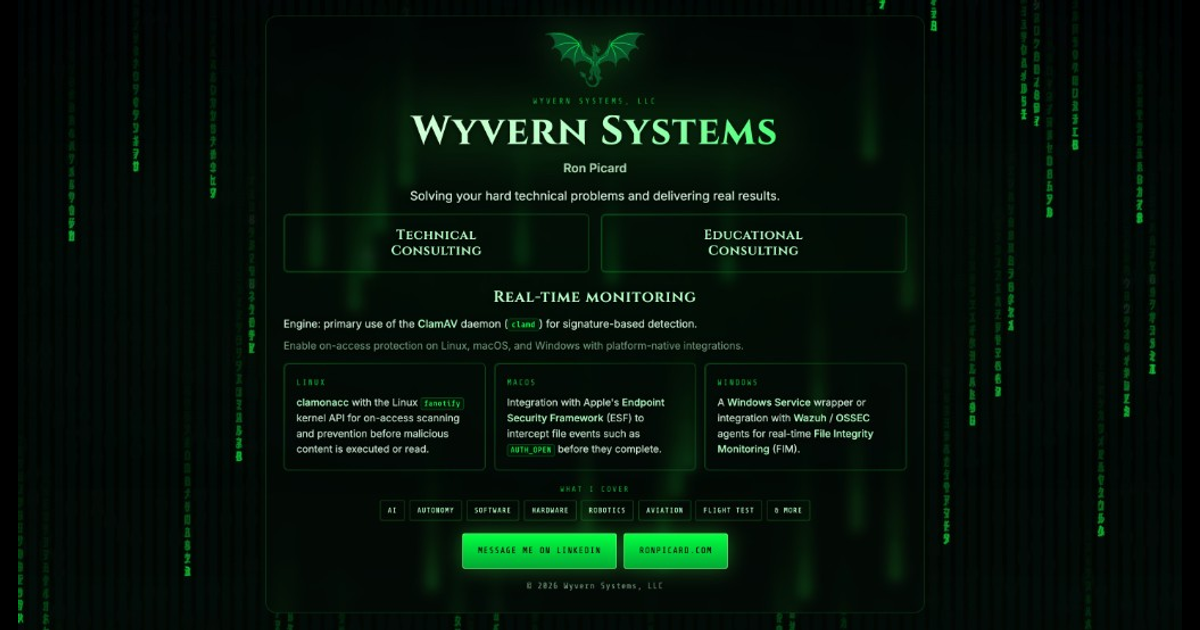
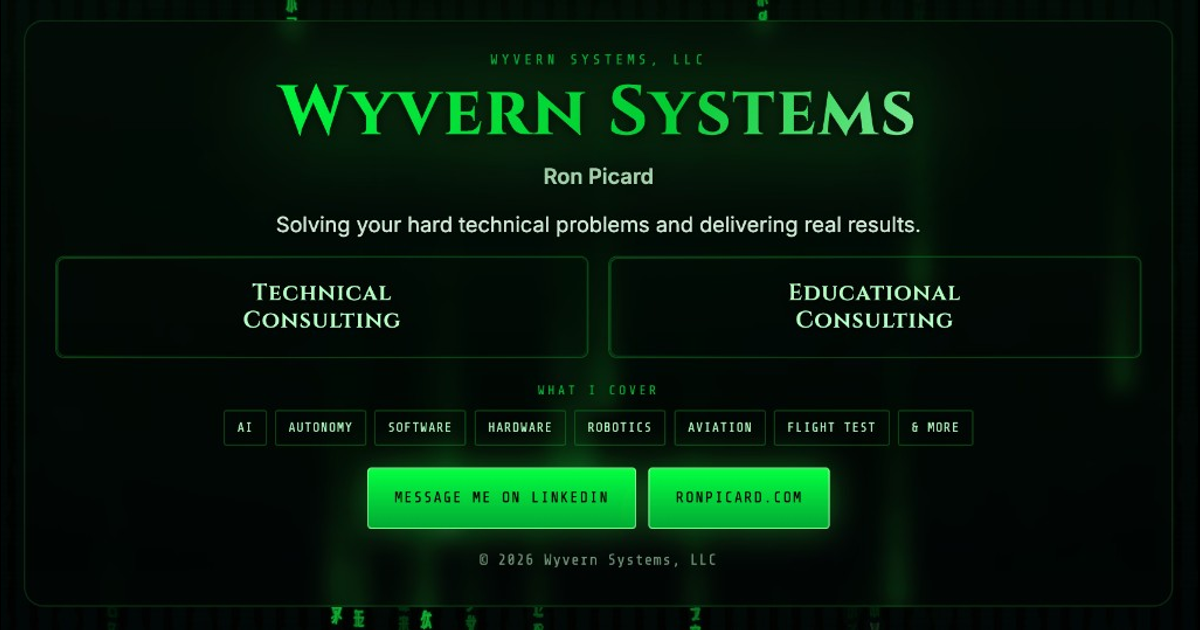
updates

diff --git a/index.html b/index.html
@@ -5,8 +5,8 @@
     <!-- Open Graph first: some scrapers only read the start of <head>. -->
     <meta property="og:title" content="Wyvern Systems - Ron Picard" />
     <meta property="og:description" content="Technical and educational consulting: AI, autonomy, software, hardware, robotics, aviation, flight test. Wyvern Systems, LLC." />
-    <meta property="og:image" content="https://wyvernsystems.com/og-image.png" />
-    <meta property="og:image:secure_url" content="https://wyvernsystems.com/og-image.png" />
+    <meta property="og:image" content="https://wyvernsystems.com/og-image.png?v=4" />
+    <meta property="og:image:secure_url" content="https://wyvernsystems.com/og-image.png?v=4" />
     <meta property="og:image:type" content="image/png" />
     <meta property="og:image:width" content="1200" />
     <meta property="og:image:height" content="630" />
@@ -34,8 +34,8 @@
     <meta name="twitter:card" content="summary_large_image" />
     <meta name="twitter:title" content="Wyvern Systems - Ron Picard" />
     <meta name="twitter:description" content="Technical and educational consulting: AI, autonomy, software, hardware, robotics, aviation, flight test." />
-    <meta name="twitter:image" content="https://wyvernsystems.com/og-image.png" />
-    <link rel="image_src" href="https://wyvernsystems.com/og-image.png" />
+    <meta name="twitter:image" content="https://wyvernsystems.com/og-image.png?v=4" />
+    <link rel="image_src" href="https://wyvernsystems.com/og-image.png?v=4" />
     <title>Wyvern Systems — Ron Picard</title>
     <link rel="preconnect" href="https://fonts.googleapis.com" />
     <link rel="preconnect" href="https://fonts.gstatic.com" crossorigin />

diff --git a/src/App.jsx b/src/App.jsx
@@ -14,21 +14,6 @@ const SPECTRUM = [
   "& more",
 ];
 
-function WyvernEmblem() {
-  return (
-    <div className="wyvern-emblem" aria-hidden="true">
-      <img
-        className="dragon-emblem-img"
-        src={`${import.meta.env.BASE_URL}images/wyvern-systems-logo-matrix.png`}
-        width={1024}
-        height={558}
-        decoding="async"
-        alt=""
-      />
-    </div>
-  );
-}
-
 export default function App() {
   const year = new Date().getFullYear();
 
@@ -46,7 +31,6 @@ export default function App() {
         </div>
 
         <div className="home-inner">
-          <WyvernEmblem />
           <p className="hero-llc">Wyvern Systems, LLC</p>
           <h1 className="hero-title">Wyvern Systems</h1>
           <p className="hero-byline">

diff --git a/src/index.css b/src/index.css
@@ -220,23 +220,6 @@ a.btn {
   box-shadow: none;
 }
 
-.wyvern-emblem {
-  width: min(7.75rem, 72vw);
-  max-width: 100%;
-  margin: 0 auto 0.65rem;
-  filter: drop-shadow(0 0 22px var(--matrix-glow));
-}
-
-/* Matrix logo PNG; intrinsic 1024×558 (public/images/wyvern-systems-logo-matrix.png) */
-.dragon-emblem-img {
-  display: block;
-  width: 100%;
-  height: auto;
-  aspect-ratio: 1024 / 558;
-  object-fit: contain;
-  object-position: center bottom;
-}
-
 .hero-llc {
   margin: 0 0 0.25rem;
   font-family: var(--font-mono);
